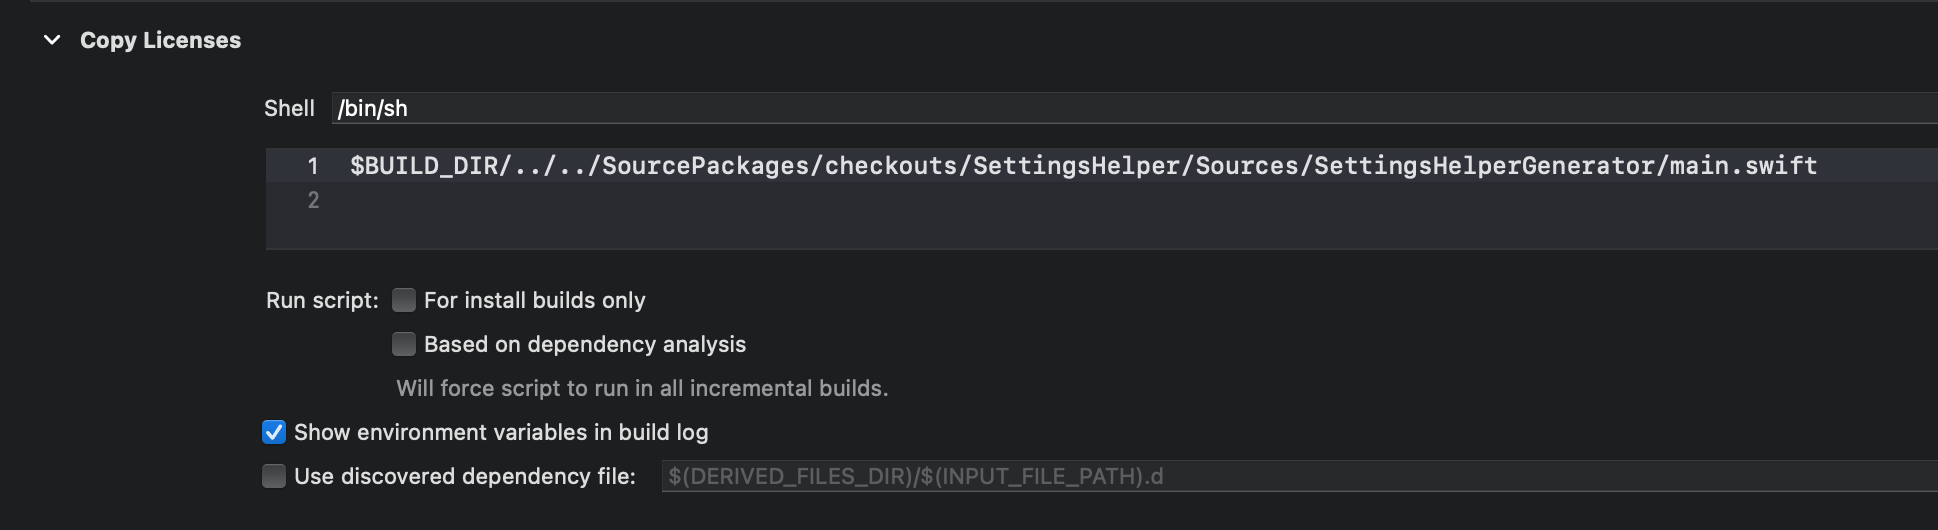
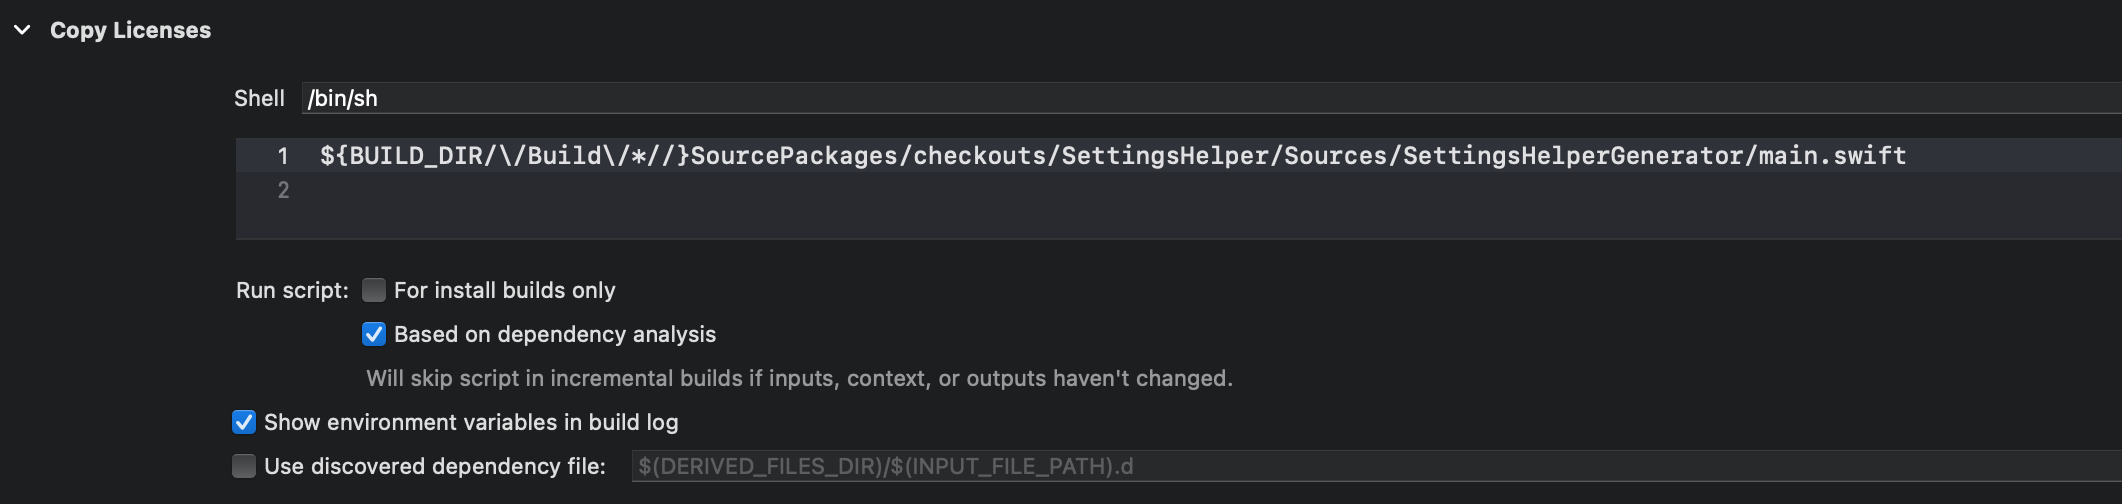
Update path to script

diff --git a/README.md b/README.md
@@ -83,7 +83,7 @@ The QuestionAndAnswers will contain `title` and `content` parameters. Excluding 
 
 This framework can automatically copy the LICENSE files to your app when building. It iterates over every SPM project that your projects uses and look for LICENSE fies. They are added to your *.app bundle resources.
 
-To do this, add a *New Run Script Phase* in your *Build Phases* and use the following command: `${BUILD_DIR}/../../SourcePackages/checkouts/SettingsHelper/Sources/SettingsHelperGenerator/main.swift`
+To do this, add a *New Run Script Phase* in your *Build Phases* and use the following command: `${BUILD_DIR/\/Build\/*//}SourcePackages/checkouts/SettingsHelper/Sources/SettingsHelperGenerator/main.swift`
 
 <img src="assets/SettingsHelper Copy Licenses Run Script.png" width="600">
 
